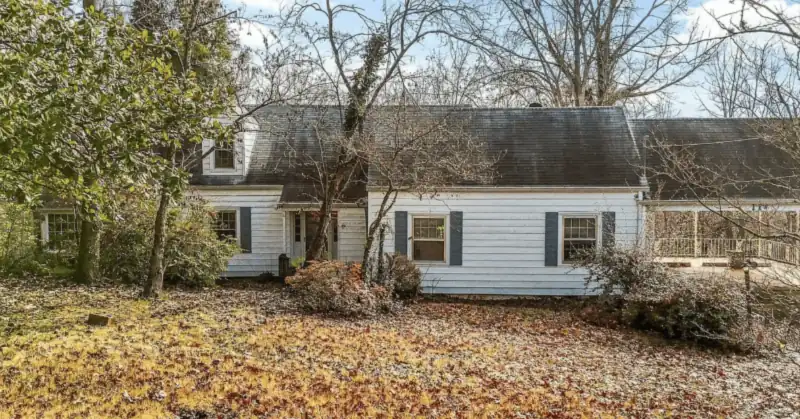
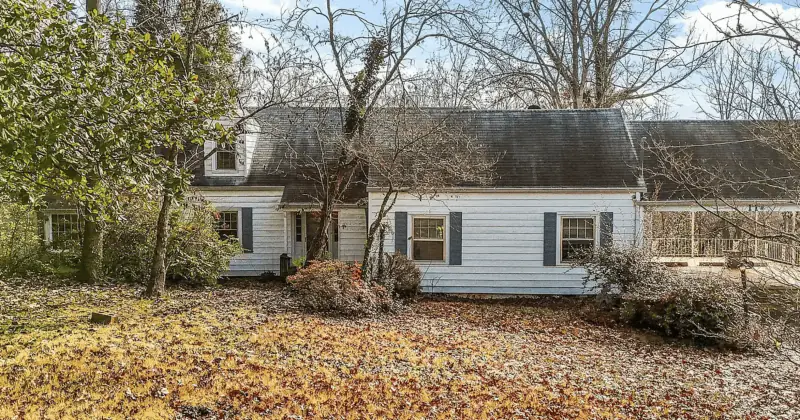
Sharper hero photos: new city photo, unsoftened county photo, 2048w size, phones load 1600w

diff --git a/tn-cash-for-homes/location-hero.php b/tn-cash-for-homes/location-hero.php
@@ -5,7 +5,9 @@
  * intro, checklist, BBB seal, buttons and the cash offer form on top.
  *
  * The photo is a real <img> (not a CSS background) so it has alt text and the
- * browser finds it in the HTML right away. It is the first thing on the page,
+ * browser finds it in the HTML right away. On phones the photo is drawn
+ * about 900px wide (560px tall, cropped to the screen), so sizes says 800px
+ * there; "100vw" would make phones pick a file too small and look soft. It is the first thing on the page,
  * so it is never lazy loaded. Styles live in critical.css.
  *
  * Args (get_template_part( 'location-hero', null, $args )):
@@ -25,9 +27,10 @@ $tcfh_subtitle = ! empty( $args['subtitle'] )
     ? $args['subtitle']
     : 'No repairs. No commissions. No fees. Get a fair cash offer for your ' . $tcfh_name . ' home in as little as 24 hours. We close on your timeline.';
 
-// [file, width, height] for the large and 800w versions of each photo.
+// [file, width, height] of the 1600w file. Each photo also has -800w and
+// -2048w versions with the same shape.
 $tcfh_photos = array(
-    'city'   => array( 'city-hero-house', 1600, 932 ),
+    'city'   => array( 'city-hero-house', 1600, 969 ),
     'county' => array( 'county-hero-house', 1600, 839 ),
 );
 $tcfh_photo = $tcfh_photos[ $tcfh_type ];
@@ -40,8 +43,8 @@ $tcfh_id    = $tcfh_prefix . '-%s-' . $tcfh_slug;
 <section class="county-hero county-hero--photo<?php echo 'city' === $tcfh_type ? ' city-page' : ''; ?>">
   <img class="county-hero__bg"
     src="<?php echo esc_url( $tcfh_base . '.webp' ); ?>"
-    srcset="<?php echo esc_url( $tcfh_base . '-800w.webp' ); ?> 800w, <?php echo esc_url( $tcfh_base . '.webp' ); ?> 1600w"
-    sizes="100vw"
+    srcset="<?php echo esc_url( $tcfh_base . '-800w.webp' ); ?> 800w, <?php echo esc_url( $tcfh_base . '.webp' ); ?> 1600w, <?php echo esc_url( $tcfh_base . '-2048w.webp' ); ?> 2048w"
+    sizes="(max-width: 768px) 800px, 100vw"
     width="<?php echo (int) $tcfh_photo[1]; ?>" height="<?php echo (int) $tcfh_photo[2]; ?>"
     alt="A house Tennessee Cash For Homes bought in Middle Tennessee"
     fetchpriority="high" decoding="async" />
